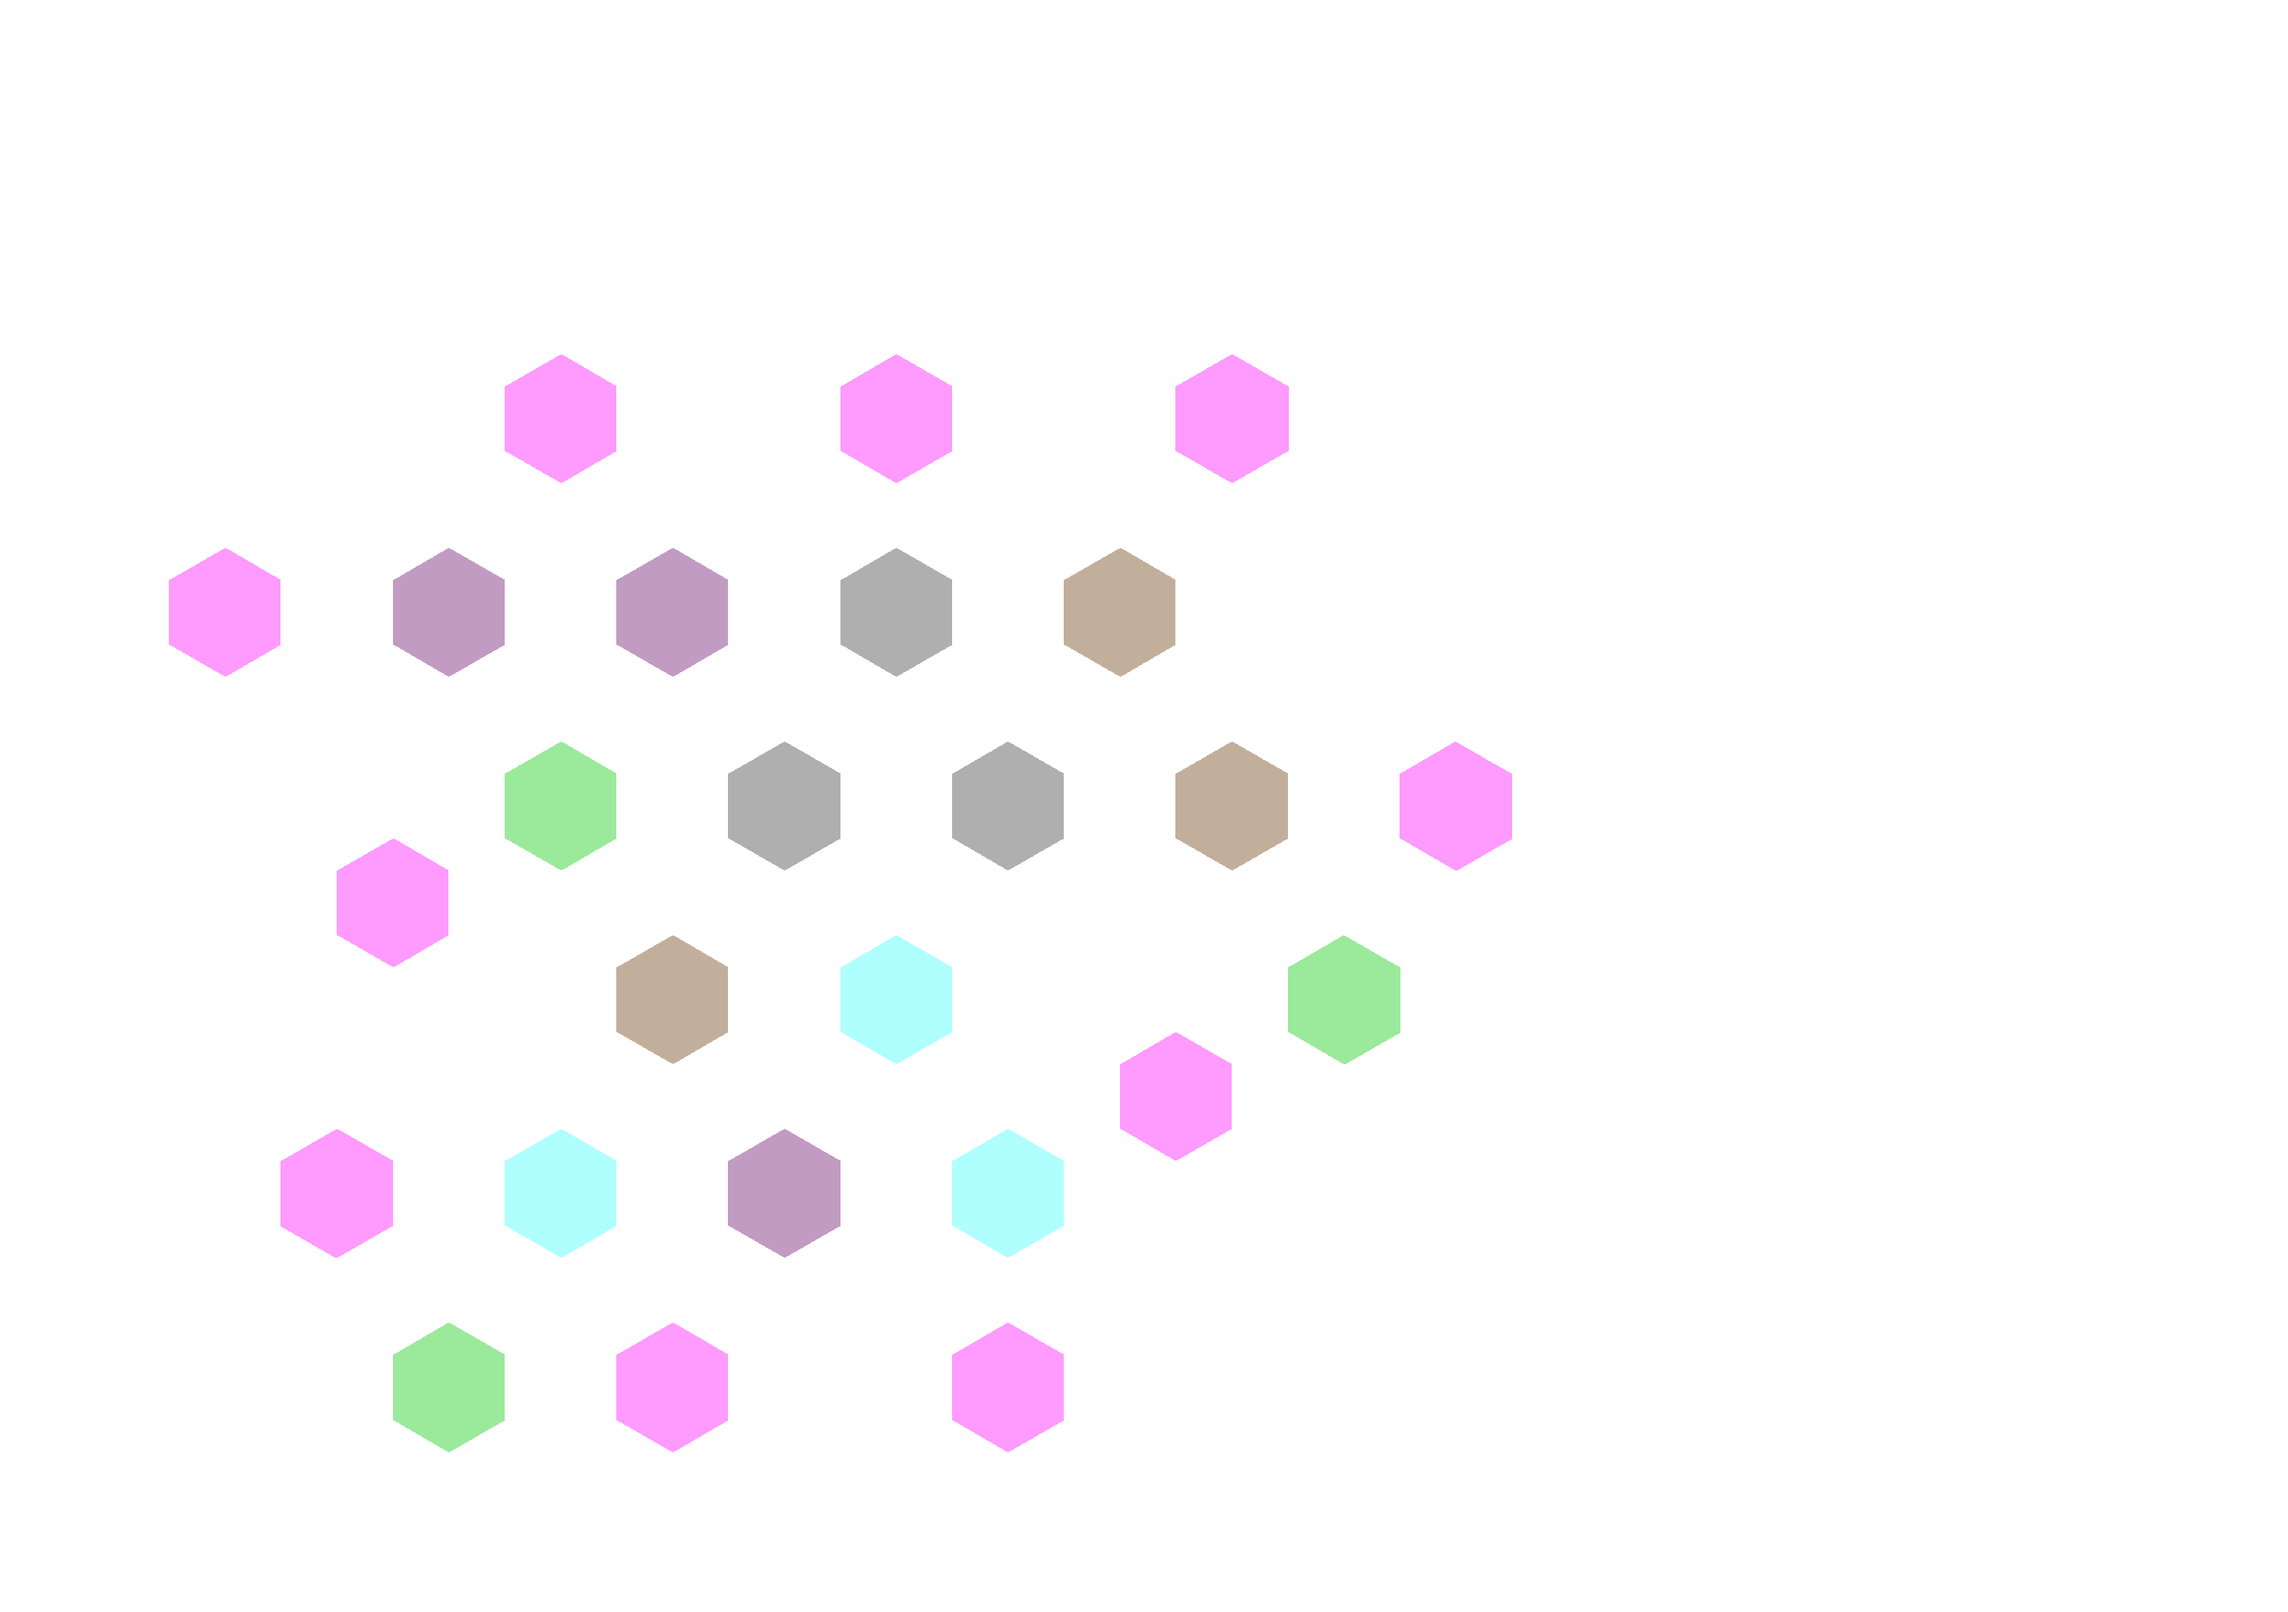
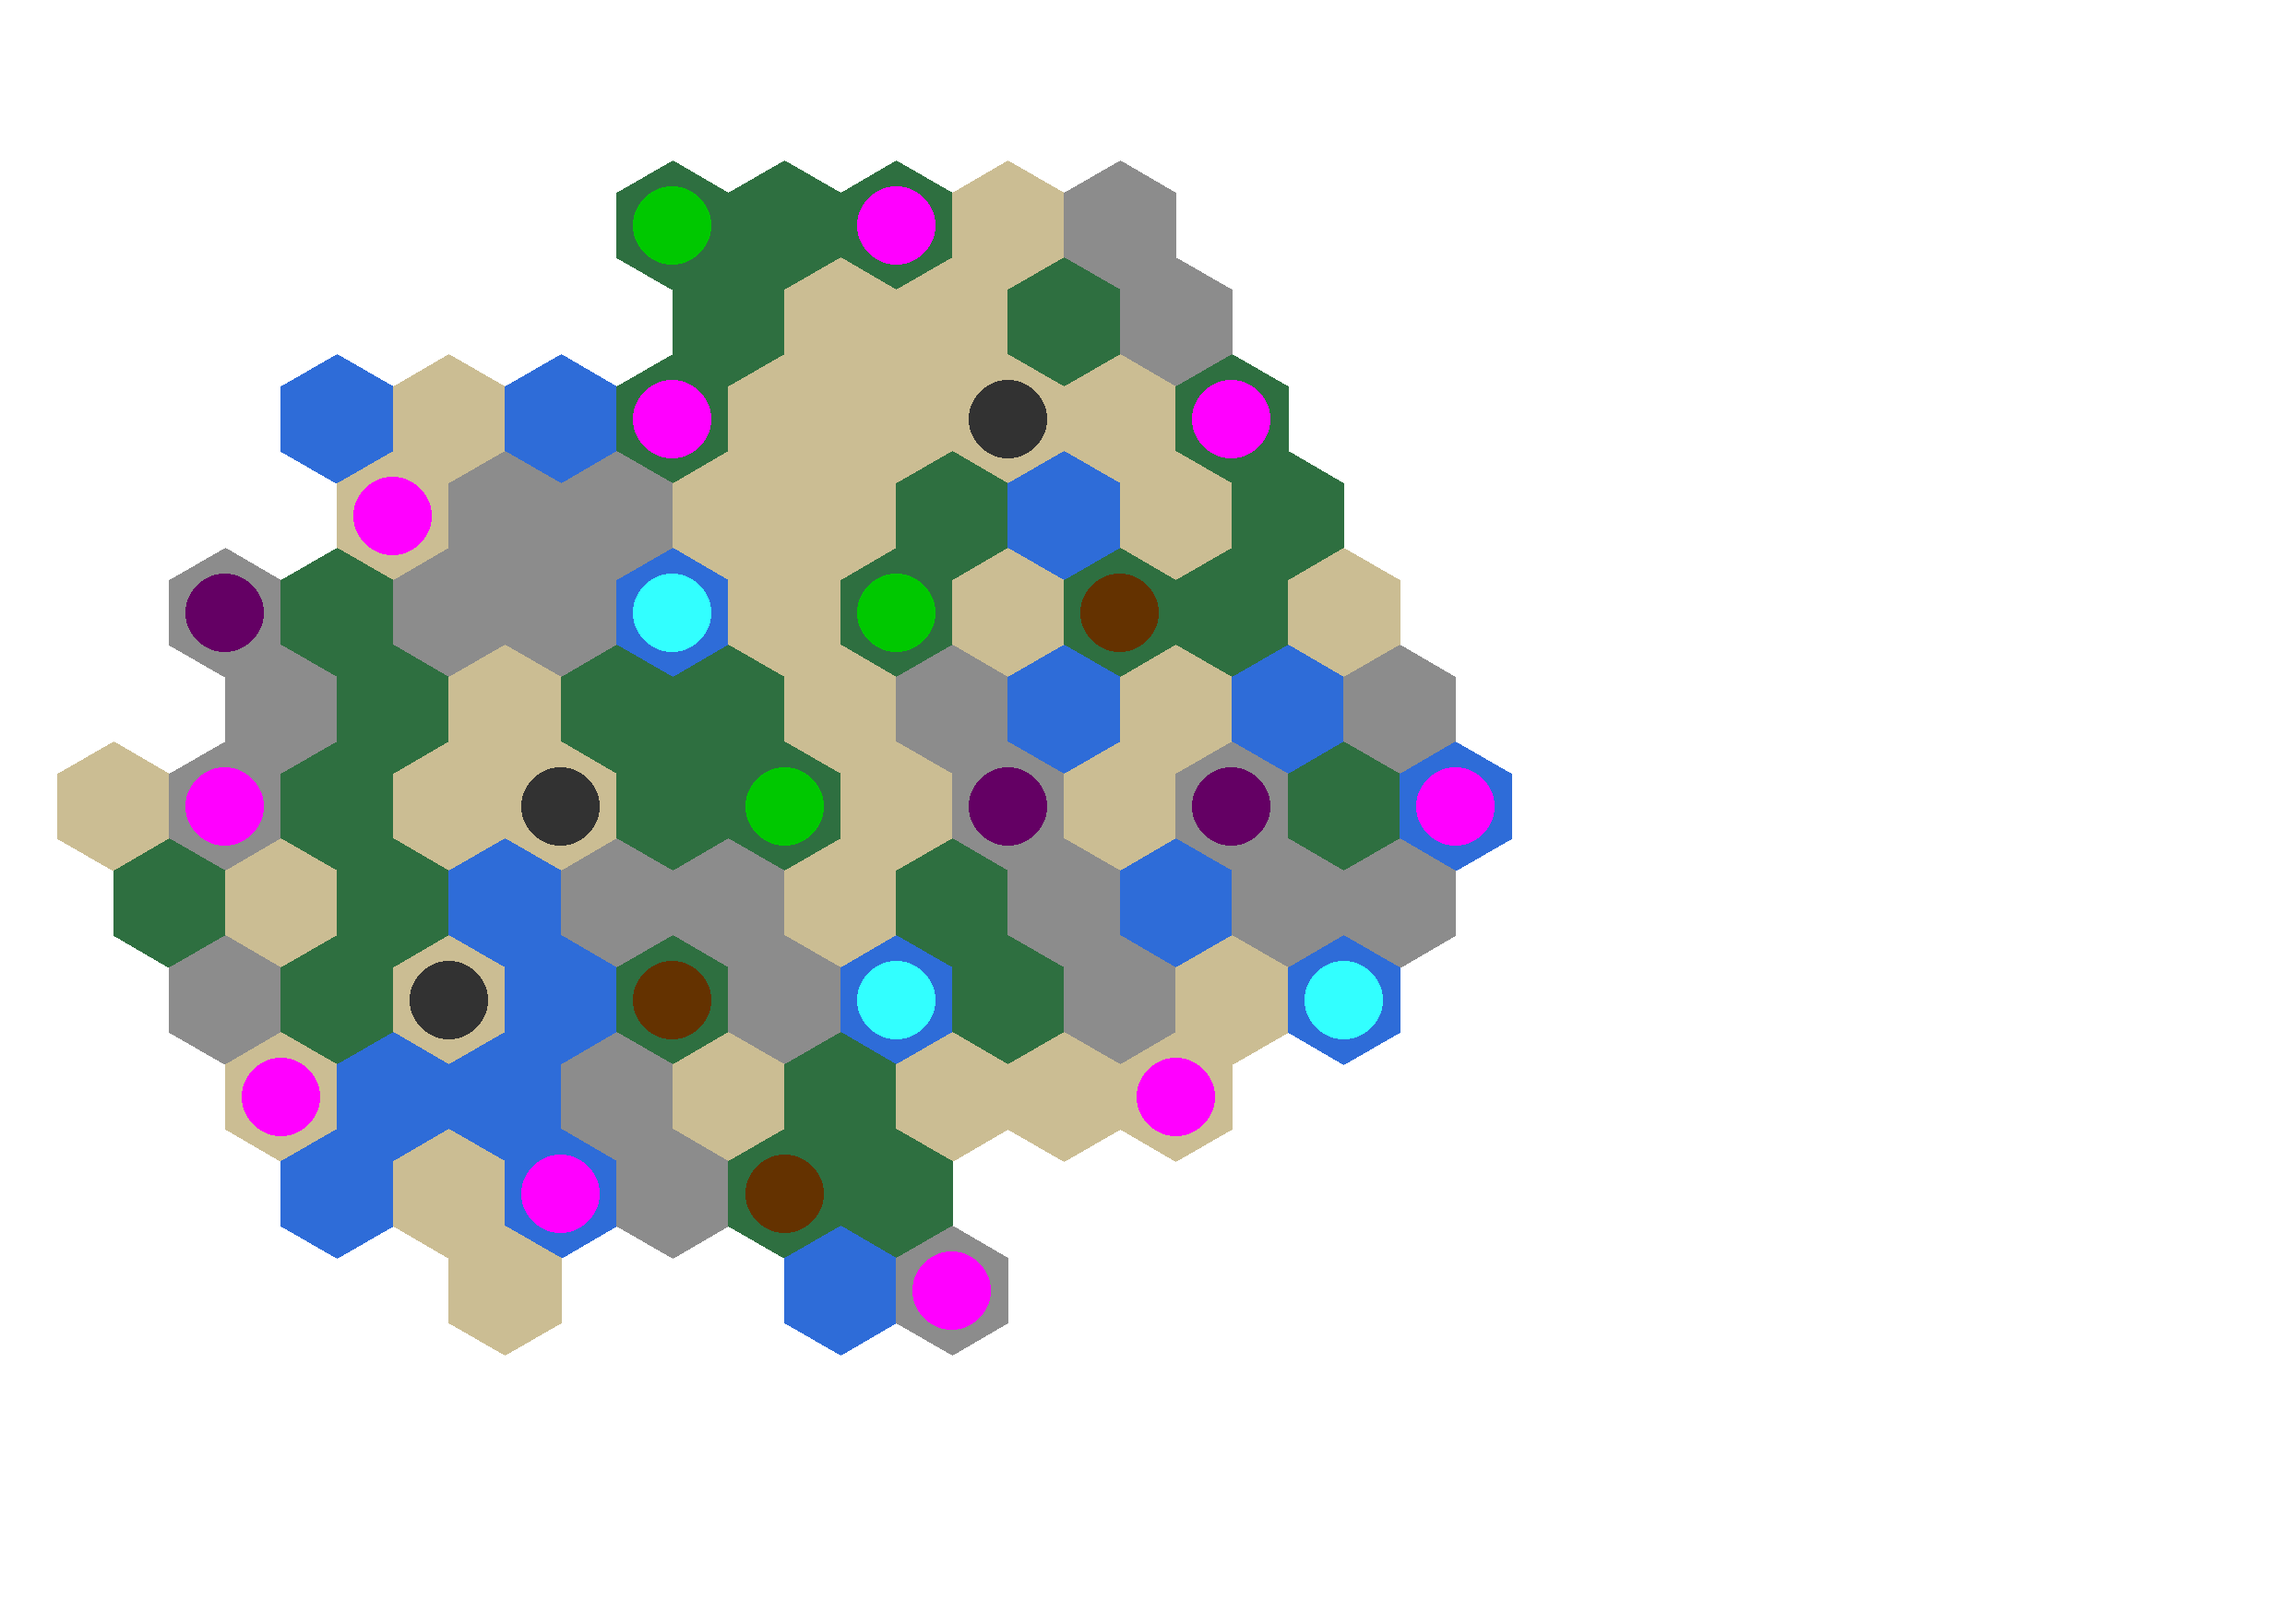
Refactor ImageConfig to use 'radius' instead of 'hex_radius' and update related drawing functions

diff --git a/src/hexmap.rs b/src/hexmap.rs
@@ -1,14 +1,16 @@
 use std::ops::{Index, IndexMut};
 use hexx::{Hex, storage::{HexStore, HexagonalMap}};
 use image::Rgba;
-use imageproc::drawing::{Canvas, draw_polygon_mut};
+use imageproc::drawing::{Canvas, draw_polygon_mut, draw_filled_circle_mut};
 use rand::prelude::*;
 use crate::{drawing::*, tiles::*};
 
 type Result<T> = core::result::Result<T, String>;
 
-pub const BIG_MAP_SIZE:   u8 = 104;
-pub const SMALL_MAP_SIZE: u8 =  73;
+const PROP_RADIUS_MULTI: f32 = 0.60;
+
+const BIG_MAP_SIZE:   u8 = 104;
+const SMALL_MAP_SIZE: u8 =  73;
 
 const HEXMAP_RADIUS_BIG:   u32 = 6;
 const HEXMAP_RADIUS_SMALL: u32 = 5;
@@ -35,6 +37,7 @@ macro_rules! empty {
 }
 
 /// RGB colors + alpha channel
+#[macro_export]
 macro_rules! rgba {
     ($r:expr, $g:expr, $b:expr, $a:expr) => {
         Rgba::<u8>([$r, $g, $b, $a])
@@ -299,7 +302,7 @@ impl DrawHexMap<bool> for TileMap_shape {
 
     fn draw_element<C: Canvas<Pixel = Self::ColorSpace>>(&self, img: &mut C, hex: Hex, value: &bool, image_config: ImageConfig) {
         let pos = get_pos(hex, image_config);
-        let points = get_hex_points(pos, image_config.hex_radius);
+        let points = get_hex_points(pos, image_config.radius);
         if *value {
             draw_polygon_mut(img, &points, if hex == Hex::ZERO {rgba!(255, 0, 0)} else {rgba!(255, 255, 255)})
         }
@@ -473,7 +476,7 @@ impl DrawHexMap<Option<TileTemplate>> for TileMap_templates {
 
     fn draw_element<C: Canvas<Pixel = Self::ColorSpace>>(&self, img: &mut C, hex: Hex, value: &Option<TileTemplate>, image_config: ImageConfig) {
         let pos = get_pos(hex, image_config);
-        let points = get_hex_points(pos, image_config.hex_radius);
+        let points = get_hex_points(pos, image_config.radius);
         if let Some(template) = value { draw_polygon_mut(img, &points, if hex == Hex::ZERO {rgba!(255, 0, 0)} else {template.color()}) }
     }
 }
@@ -656,22 +659,16 @@ impl DrawHexMap<PropOption> for TileMap_props {
 
     fn draw_element<C: Canvas<Pixel = Self::ColorSpace>>(&self, img: &mut C, hex: Hex, value: &PropOption, image_config: ImageConfig) {
         let pos = get_pos(hex, image_config);
-        let points = get_hex_points(pos, image_config.hex_radius);
+        let points = get_hex_points(pos, image_config.radius);
         let color = if false {
             // hex == Hex::ZERO
             rgba!(255, 0, 0)
         }
         else {
             match value {
-                PropOption::Some(Prop::Village(_))  => rgba!(255, 0  , 255, 100),
-                PropOption::Some(Prop::Monolith)    => rgba!(50 , 50 , 50 , 100),
-                PropOption::Some(Prop::Book)        => rgba!(100, 50 , 0  , 100),
-                PropOption::Some(Prop::Bird)        => rgba!(0  , 200, 0  , 100),
-                PropOption::Some(Prop::WeirdMonkey) => rgba!(100, 0  , 100, 100),
-                PropOption::Some(Prop::Dragon)      => rgba!(50 , 255, 255, 100),
-
-                PropOption::CanHave => panic!("attempted to draw empty artifact slot at {hex:?}"),
-                PropOption::NotAllowed => rgba!(0, 0, 0, 0)
+                PropOption::Some(prop) => get_prop_color!(prop),
+                PropOption::NotAllowed => rgba!(0, 0, 0, 0),
+                PropOption::CanHave => panic!("attempted to draw empty artifact slot at {hex:?}")
             }
         };
         draw_polygon_mut(img, &points, color)
@@ -768,6 +765,16 @@ impl DrawHexMap<Tile> for TileMap {
     type ColorSpace = Rgba<u8>;
 
     fn draw_element<C: Canvas<Pixel = Self::ColorSpace>>(&self, img: &mut C, hex: Hex, value: &Tile, image_config: ImageConfig) {
-        todo!()
+        let pos = get_pos(hex, image_config);
+        if let Tile { template: Some(template), prop: prop_option } = *value {
+            let points = get_hex_points(pos, image_config.radius);
+            draw_polygon_mut(img, &points, template.color());
+
+            if let PropOption::Some(prop) = prop_option {
+                let prop_color = get_prop_color!(prop);
+
+                draw_filled_circle_mut(img, (pos.x as i32, pos.y as i32), (image_config.radius * PROP_RADIUS_MULTI) as i32, prop_color);
+            }
+        }
     }
 }

diff --git a/src/tiles.rs b/src/tiles.rs
@@ -138,7 +138,7 @@ pub enum Prop {
     Dragon
 }
 impl Prop {
-    
+
     pub fn get_template(self) -> TileTemplate {
         for tempalte in TEMPLATES {
             if tempalte.primary_art == self || tempalte.secondary_art == Some(self) {
@@ -147,6 +147,20 @@ impl Prop {
         }
         panic!("did not find template for prop {self:?}")
     }
+}
+
+#[macro_export]
+macro_rules! get_prop_color {
+    ($prop:expr) => {
+        match $prop {
+            Prop::Village(_)  => rgba!(255, 0  , 255),
+            Prop::Monolith    => rgba!(50 , 50 , 50 ),
+            Prop::Book        => rgba!(100, 50 , 0  ),
+            Prop::Bird        => rgba!(0  , 200, 0  ),
+            Prop::WeirdMonkey => rgba!(100, 0  , 100),
+            Prop::Dragon      => rgba!(50 , 255, 255),
+        }
+    };
 }
 
 pub const TEMPLATES: [TileTemplate; 4] = [SAND, FOREST, MOUNTAIN, WATER];

diff --git a/src/main.rs b/src/main.rs
@@ -1,3 +1,4 @@
+#[macro_use]
 mod tiles;
 mod hexmap;
 mod drawing;
@@ -8,7 +9,13 @@ use rand::{Rng, rng};
 use image::*;
 
 
-use hexmap::*;
+use hexmap::{
+    TileMap_rawShapeGen, 
+    TileMap_shape, 
+    TileMap_props, 
+    TileMap_templates, 
+    TileMap, 
+    MapSize};
 use crate::drawing::{DrawHexMap, ImageConfig};
 
 const ERROR_TIMEOUT_LIMIT: u8 = 20;
@@ -38,7 +45,7 @@ fn main() -> Result<(), Box<dyn Error>> {
     let image_config = ImageConfig { 
         height: HEIGHT, 
         width: WIDTH, 
-        hex_radius: match_size!(size, HEX_RADIUS_BIG, HEX_RADIUS_SMALL),
+        radius: match_size!(size, HEX_RADIUS_BIG, HEX_RADIUS_SMALL),
         hexmap_offset: HEXMAP_OFFSET
     };
     

diff --git a/src/drawing.rs b/src/drawing.rs
@@ -8,7 +8,7 @@ use imageproc::drawing::Canvas;
 pub struct ImageConfig {
     pub width: u32,
     pub height: u32,
-    pub hex_radius: f32,
+    pub radius: f32,
 
     pub hexmap_offset: Vec2
 }
@@ -31,7 +31,7 @@ pub fn get_pos(pos: Hex, image_config: ImageConfig) -> Vec2 {
     let layout = HexLayout { 
         origin: image_config.hexmap_offset, 
         orientation: HexOrientation::Pointy,
-        scale: Vec2::splat(image_config.hex_radius) };
+        scale: Vec2::splat(image_config.radius) };
     layout.hex_to_world_pos(pos)
 }
 
